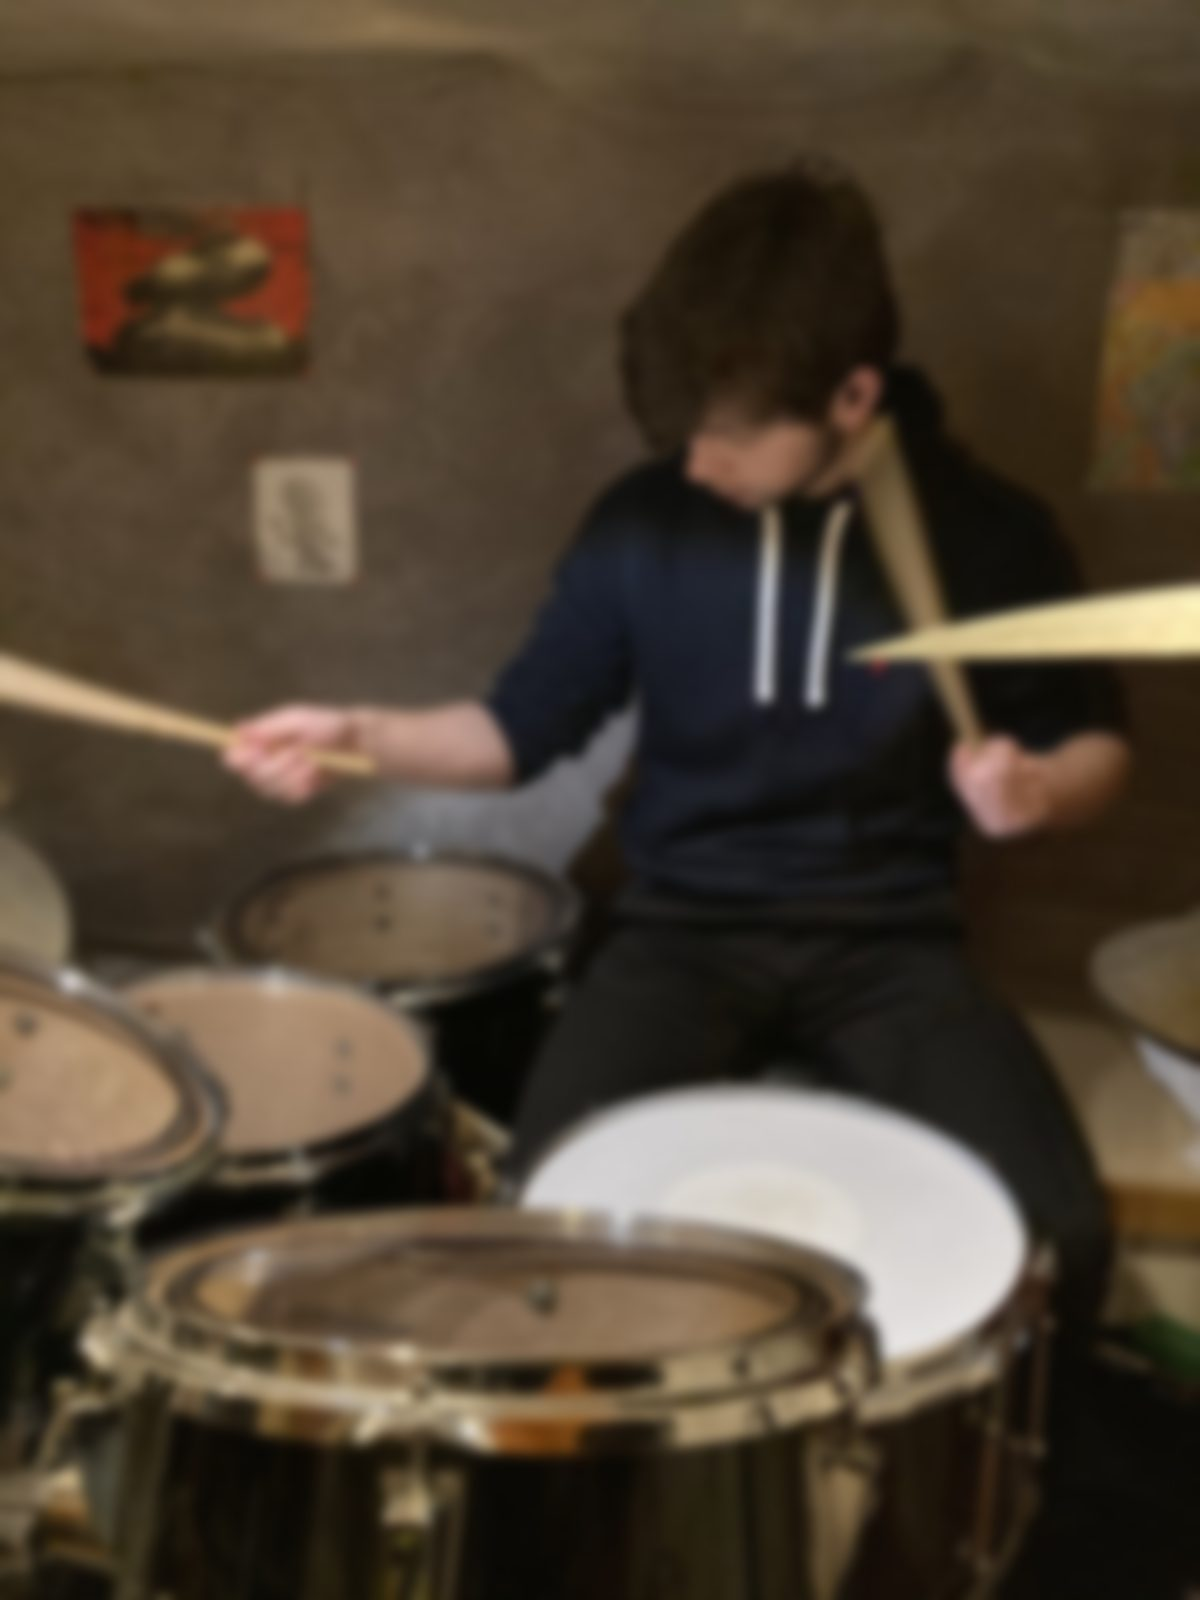
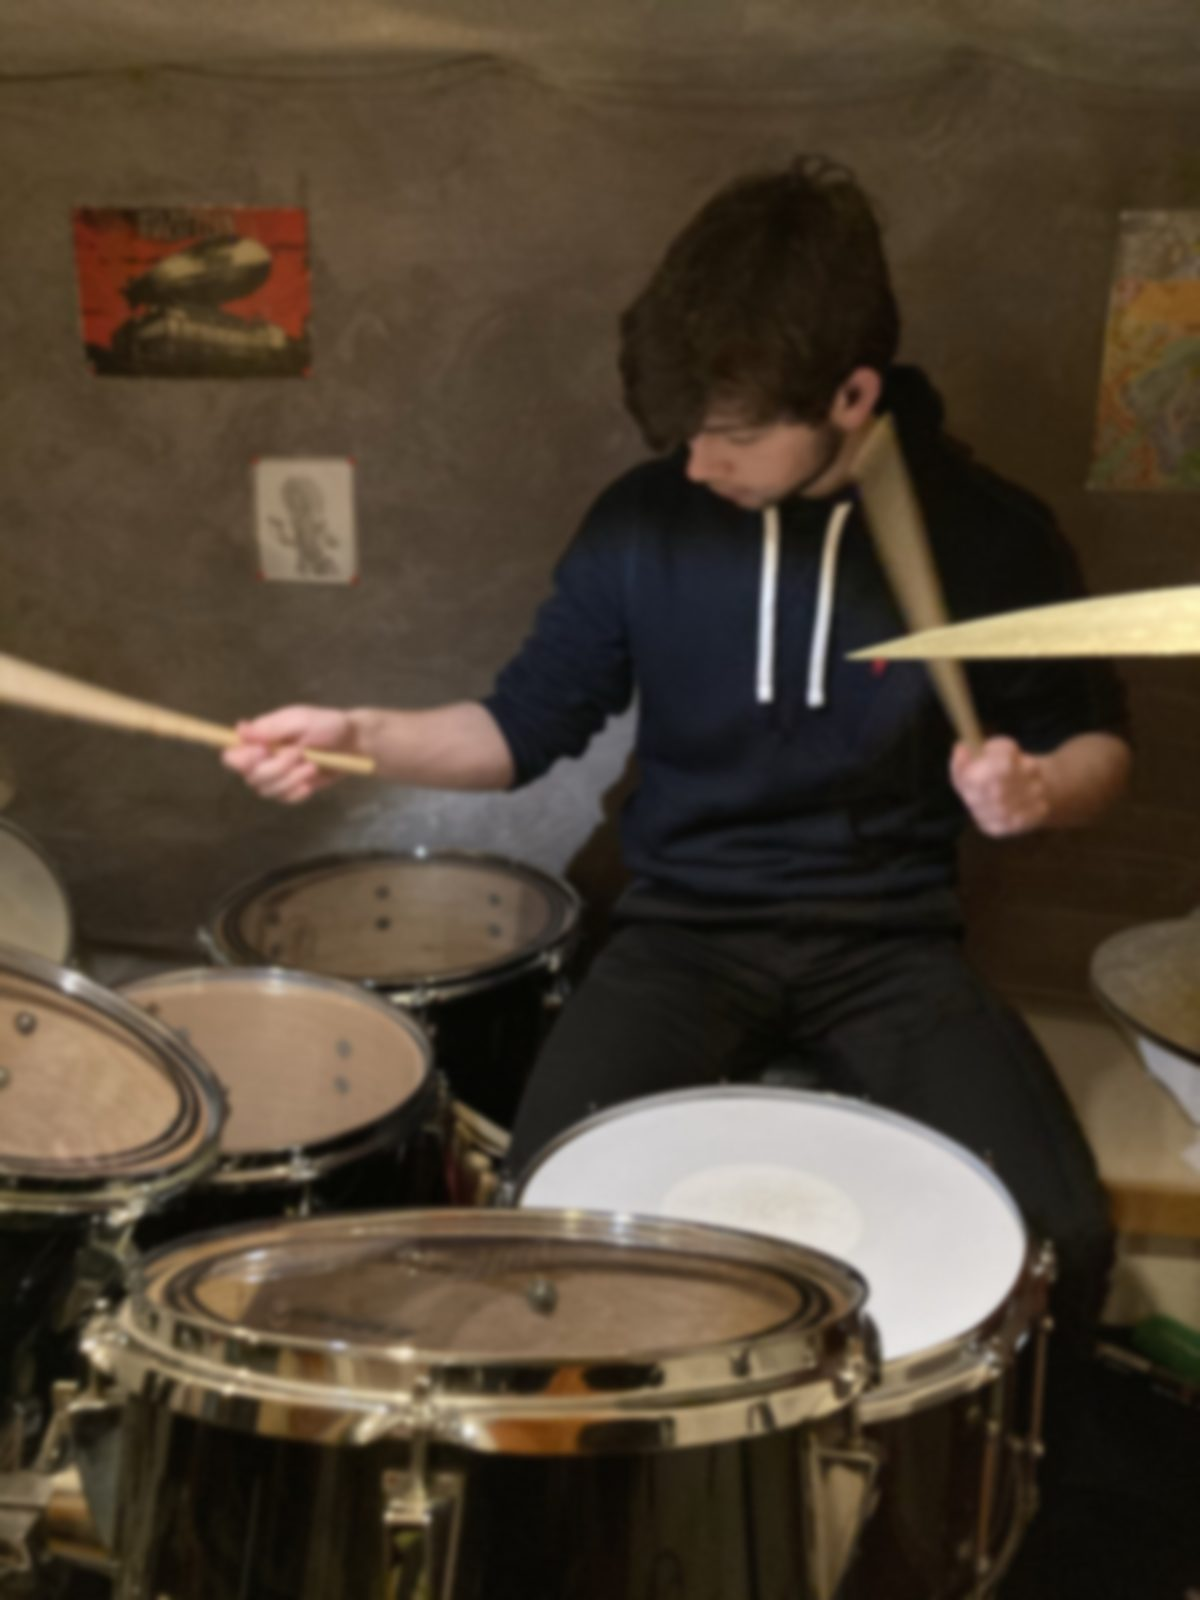
Photo batterie : cadrage bas et flou réduit
Claude-Session: https://claude.ai/code/session_01JiJ5CM71KjtpV35QtCZjB6

diff --git a/index.html b/index.html
@@ -67,7 +67,7 @@ footer a{color:var(--accent)}
 html{scroll-behavior:smooth}
 .bgl{position:fixed;inset:-40px;z-index:-2;background:center/cover no-repeat;filter:blur(2px);transition:opacity .25s linear}
 .bg1{background-image:url("bg.jpg")}
-.bg2{background-image:url("bg2.jpg");background-position:center 30%;opacity:0}
+.bg2{background-image:url("bg2.jpg");background-position:center 85%;filter:blur(1px);opacity:0}
 body::after{content:"";position:fixed;inset:0;z-index:-1;background:linear-gradient(180deg,rgba(18,20,25,.55) 0%,rgba(18,20,25,.82) 45%,rgba(18,20,25,.92) 100%)}
 .tr:hover,.tr.on{background:color-mix(in srgb,var(--surface) 85%,transparent)}
 </style>
